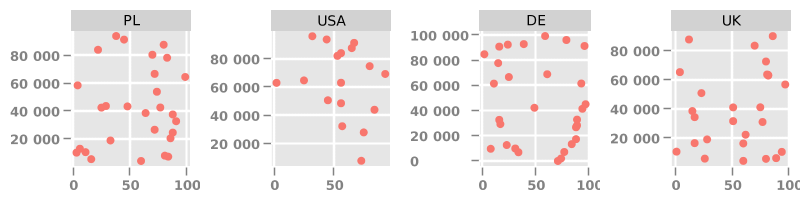
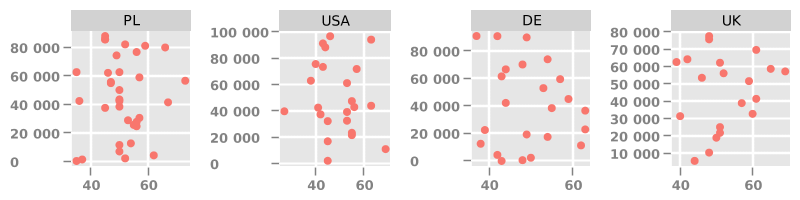
Multiple series for charts
resolves #11
resolves #16

diff --git a/README.md b/README.md
@@ -43,6 +43,8 @@ Seq(1.0, 4.0, 9.0).plotBar()
 import com.datawizards.splot.api.implicits._
 ```
 
+> Please also note that most of below examples are based on randomly generated data!
+
 ## Bar
 
 ### Bar chart for sequence of numbers
@@ -184,7 +186,21 @@ gaussians.plotHistogram(100)
 
 ![](images/histogram_for_gaussians.png)
 
-# Multi charts
+# Multiple series
+
+```scala
+people
+    .buildPlot()
+    .scatter(_.age, _.income)
+    .seriesBy(_.education)
+    .size(500, 400)
+    .titles("Age and income by education", "age", "income")
+    .display()
+```
+
+![](images/scatter_chart_with_multiple_series.png)
+
+# Multiple charts
 
 ## Grouping by cols
 
@@ -241,6 +257,20 @@ groupedPeopleByCountryEducation
 ```
 
 ![](images/bar_chart_grids_with_string.png)
+
+## Multiple columns and series
+
+```scala
+people
+    .buildPlot()
+    .scatter(_.age, _.income)
+    .size(1200, 300)
+    .colsBy(_.country)
+    .seriesBy(_.education)
+    .display()
+```
+
+![](images/scatter_chart_with_multiple_columns_and_series.png)
 
 # Saving plot to file
 
